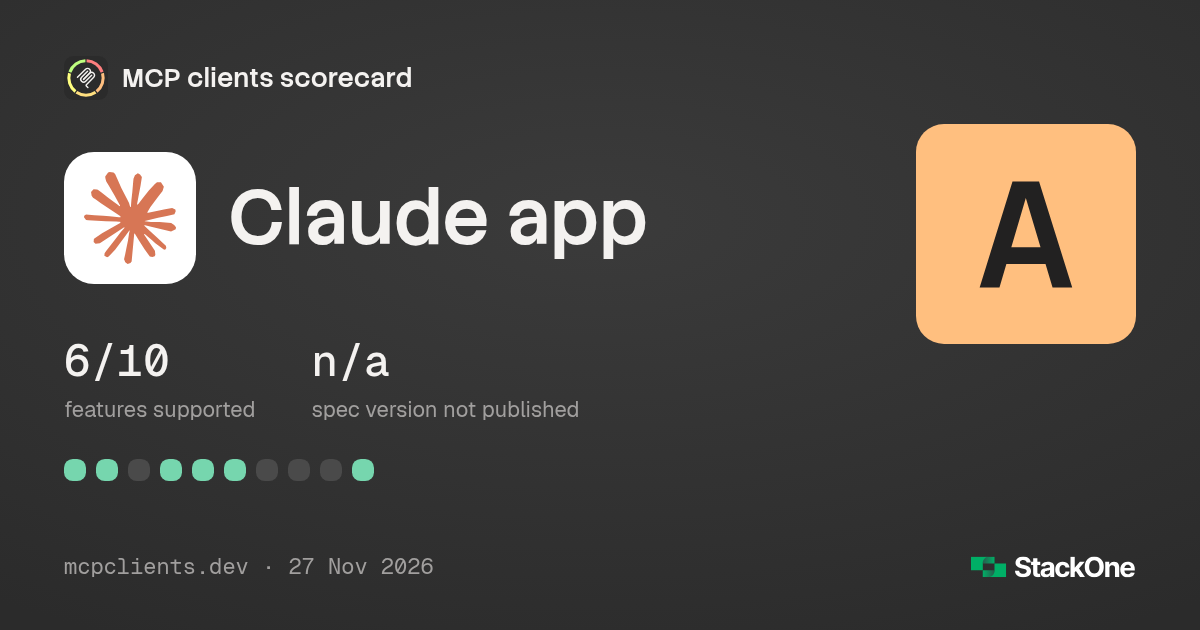
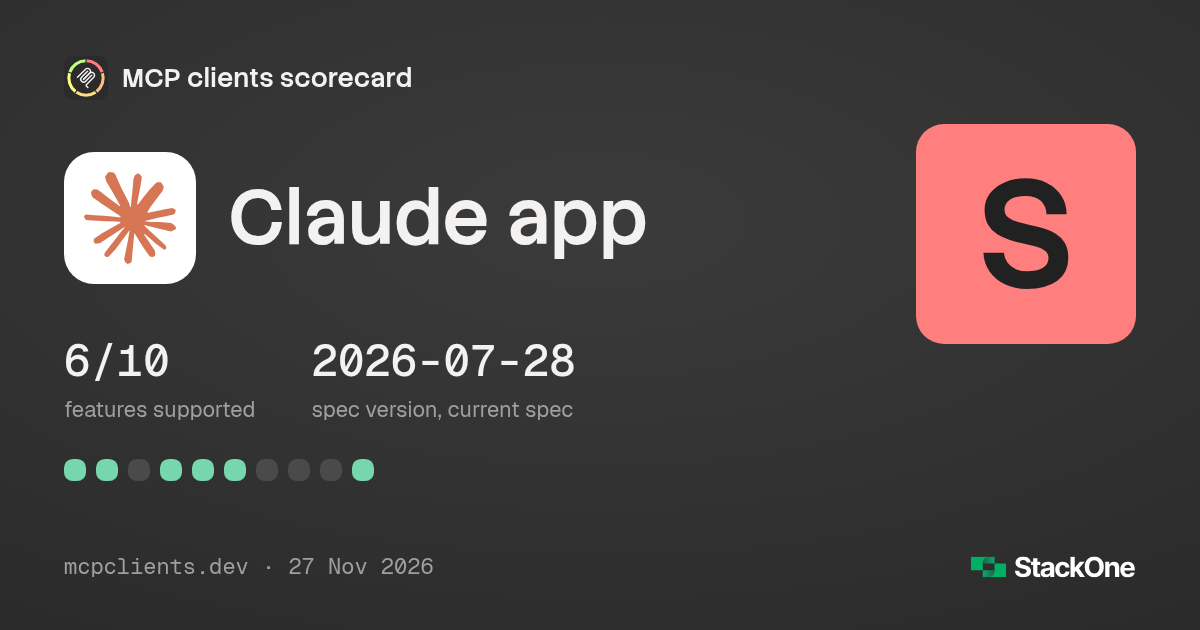
data(claude-app): spec version 2026-07-28 from Claude Desktop source; S tier
Claude Desktop 6.28899.6 negotiates 2026-07-28 first (falls back to
2025-11-25) for remote connectors and built-in-Node extensions, per its
app.asar. With 6 of 10 on the current spec the rubric gives S.

Changed region(s): [[0.74, 0.181, 0.9558, 0.573], [0.2467, 0.5429, 0.4933, 0.6032], [0.37, 0.6333, 0.4933, 0.6635]]

diff --git a/README.md b/README.md
@@ -13,11 +13,13 @@ Which MCP clients support which parts of the [Model Context Protocol](https://mo
 <!-- changes:start -->
 <!-- Generated by `npm run build` from data/. Do not edit between the markers. -->
 
-The last 30 days to 27 Nov 2026. Clients: 15 · Feature support: 26 · Tier moves: 8 · Spec: 1. Board changes carry the date of the weekly check, shipped features the date of their release note. Feeds: [Atom](https://mcpclients.dev/changelog.xml) · [JSON](https://mcpclients.dev/changelog.json)
+The last 30 days to 27 Nov 2026. Clients: 15 · Feature support: 27 · Tier moves: 9 · Spec: 1. Board changes carry the date of the weekly check, shipped features the date of their release note. Feeds: [Atom](https://mcpclients.dev/changelog.xml) · [JSON](https://mcpclients.dev/changelog.json)
 
 | Date | Kind | Change |
 | --- | --- | --- |
 | 2026-11-27 | Client | [Antigravity](EVIDENCE.md#antigravity) joins the board in A tier |
+| 2026-11-27 | Feature | [Claude app](EVIDENCE.md#claude-app) rechecked: spec version not published → 2026-07-28 |
+| 2026-11-27 | Tier | [Claude app](EVIDENCE.md#claude-app) moves up from A to S tier |
 | 2026-11-27 | Tier | [goose](EVIDENCE.md#goose) moves down from S to A tier |
 | 2026-11-27 | Tier | [OpenClaw](EVIDENCE.md#openclaw) moves down from S to A tier |
 | 2026-11-24 | Feature | [Claude app](EVIDENCE.md#claude-app) ships Skills ([source](https://claude.com/resources/articles/skills-over-mcp-tasks-and-more)) |
@@ -25,13 +27,13 @@ The last 30 days to 27 Nov 2026. Clients: 15 · Feature support: 26 · Tier move
 | 2026-11-24 | Feature | [Claude Code](EVIDENCE.md#claude-code) ships Skills in 2.1.332 ([source](https://www.npmjs.com/package/@anthropic-ai/claude-code/v/2.1.332)) |
 | 2026-11-23 | Client | [Hermes Agent](EVIDENCE.md#hermes-agent) joins the board in A tier |
 | 2026-11-23 | Client | [Open WebUI](EVIDENCE.md#open-webui) joins the board in B tier |
-| 2026-11-23 | Client | [OpenClaw](EVIDENCE.md#openclaw) joins the board in S tier |
-| 2026-11-23 | Feature | [Gemini CLI](EVIDENCE.md#gemini-cli) rechecked: spec version 2025-06-18 → 2025-11-25 |
 
-<details><summary>40 more from the last 30 days</summary>
+<details><summary>42 more from the last 30 days</summary>
 
 | Date | Kind | Change |
 | --- | --- | --- |
+| 2026-11-23 | Client | [OpenClaw](EVIDENCE.md#openclaw) joins the board in S tier |
+| 2026-11-23 | Feature | [Gemini CLI](EVIDENCE.md#gemini-cli) rechecked: spec version 2025-06-18 → 2025-11-25 |
 | 2026-11-23 | Feature | [goose](EVIDENCE.md#goose) rechecked: Tool search partly → yes |
 | 2026-11-23 | Tier | [Gemini CLI](EVIDENCE.md#gemini-cli) moves up from D to C tier |
 | 2026-11-22 | Client | [Amp](EVIDENCE.md#amp) joins the board in A tier |
@@ -190,7 +192,7 @@ As of 27 Nov 2026. Click any cell for its source, or a client name for the full 
 | Tier | Client | Version checked | MCP bugs fixed | Spec version | MCP Apps | Tasks | Events | Skills | CIMD | ID-JAG | Elicitation | Live tool lists | Code mode <sub>harness</sub> | Tool search <sub>harness</sub> |
 | --- | --- | --- | --- | --- | --- | --- | --- | --- | --- | --- | --- | --- | --- | --- |
 | **S** | [VS Code](EVIDENCE.md#vs-code) [↗](https://code.visualstudio.com) | `1.147.0` | [46% of 368](https://github.com/microsoft/vscode/issues) | [![one version behind](assets/icons/spec-behind.svg) 2025-11-25](https://github.com/microsoft/vscode/blob/661626d0e72f97806550790a98fb87116c9db825/src/vs/workbench/contrib/mcp/common/mcpServerRequestHandler.ts#L116) | [![yes](assets/icons/y.svg)](https://github.com/microsoft/vscode/blob/2c33b50b16c472efe58357d1d2a8a5414bc23fbf/src/vs/workbench/contrib/mcp/common/mcpServerRequestHandler.ts#L130) | [![yes](assets/icons/y.svg)](https://github.com/microsoft/vscode/blob/2c33b50b16c472efe58357d1d2a8a5414bc23fbf/src/vs/workbench/contrib/mcp/common/mcpServer.ts#L1404) | [![no](assets/icons/n.svg)](https://github.com/microsoft/vscode/tree/2c33b50b16c472efe58357d1d2a8a5414bc23fbf/src/vs/workbench/contrib/mcp) | [![yes](assets/icons/y.svg)](https://github.com/microsoft/vscode-docs/blob/main/release-notes/v1_147.md) | [![yes](assets/icons/y.svg)](https://github.com/microsoft/vscode/blob/2c33b50b16c472efe58357d1d2a8a5414bc23fbf/src/vs/workbench/api/browser/mainThreadAuthentication.ts#L193) | [![yes](assets/icons/y.svg)](https://github.com/microsoft/vscode/blob/2c33b50b16c472efe58357d1d2a8a5414bc23fbf/src/vs/base/common/oauth.ts#L35) | [![yes](assets/icons/y.svg)](https://github.com/microsoft/vscode/blob/2c33b50b16c472efe58357d1d2a8a5414bc23fbf/src/vs/workbench/contrib/mcp/common/mcpServerRequestHandler.ts#L120) | [![yes](assets/icons/y.svg)](https://github.com/microsoft/vscode/blob/1.144.0/src/vs/workbench/contrib/mcp/common/mcpServer.ts#L1238-L1241) | [![no](assets/icons/n.svg)](https://github.com/microsoft/vscode/tree/2c33b50b16c472efe58357d1d2a8a5414bc23fbf/src/vs/workbench/contrib/mcp) | [![yes](assets/icons/y.svg) Embeddings](https://github.com/microsoft/vscode/blob/2c33b50b16c472efe58357d1d2a8a5414bc23fbf/extensions/copilot/src/extension/tools/node/toolSearchTool.ts) |
-| **A** | [Claude app](EVIDENCE.md#claude-app) [↗](https://claude.com/product/overview) | hosted | [13% of 596](https://github.com/anthropics/claude-ai-mcp/issues) | [![not published](assets/icons/spec-unknown.svg) not published](https://claude.com/docs/connectors/building) | [![yes](assets/icons/y.svg)](https://claude.com/docs/connectors/building/mcp-apps/getting-started) | [![yes](assets/icons/y.svg)](https://code.claude.com/docs/en/mcp) | [![no](assets/icons/n.svg)](https://claude.com/docs/connectors/building) | [![yes](assets/icons/y.svg)](https://claude.com/resources/articles/skills-over-mcp-tasks-and-more) | [![yes](assets/icons/y.svg)](https://claude.com/docs/connectors/building/authentication) | [![yes](assets/icons/y.svg)](https://claude.com/docs/connectors/building/enterprise-managed-auth) | [![no](assets/icons/n.svg)](https://github.com/anthropics/claude-ai-mcp/issues/1085) | [![no](assets/icons/n.svg)](https://github.com/anthropics/claude-ai-mcp/issues/45) | [![no](assets/icons/n.svg)](https://claude.com/docs/cowork/changelog) | [![yes](assets/icons/y.svg) Deferred](https://support.claude.com/en/articles/13730515-manage-claude-s-tool-access) |
+| **S** | [Claude app](EVIDENCE.md#claude-app) [↗](https://claude.com/product/overview) | hosted | [13% of 596](https://github.com/anthropics/claude-ai-mcp/issues) | [![current spec](assets/icons/spec-current.svg) 2026-07-28 (falls back to 2025-11-25)](https://downloads.claude.ai/claude-desktop/apt/stable/pool/main/c/claude-desktop/claude-desktop_6.28899.6_amd64.deb) | [![yes](assets/icons/y.svg)](https://claude.com/docs/connectors/building/mcp-apps/getting-started) | [![yes](assets/icons/y.svg)](https://code.claude.com/docs/en/mcp) | [![no](assets/icons/n.svg)](https://claude.com/docs/connectors/building) | [![yes](assets/icons/y.svg)](https://claude.com/resources/articles/skills-over-mcp-tasks-and-more) | [![yes](assets/icons/y.svg)](https://claude.com/docs/connectors/building/authentication) | [![yes](assets/icons/y.svg)](https://claude.com/docs/connectors/building/enterprise-managed-auth) | [![no](assets/icons/n.svg)](https://github.com/anthropics/claude-ai-mcp/issues/1085) | [![no](assets/icons/n.svg)](https://github.com/anthropics/claude-ai-mcp/issues/45) | [![no](assets/icons/n.svg)](https://claude.com/docs/cowork/changelog) | [![yes](assets/icons/y.svg) Deferred](https://support.claude.com/en/articles/13730515-manage-claude-s-tool-access) |
 | **A** | [goose](EVIDENCE.md#goose) [↗](https://goose-docs.ai) | `1.60.2` | [54% of 83](https://github.com/aaif-goose/goose/issues) | [![current spec](assets/icons/spec-current.svg) 2026-07-28 (falls back to 2025-11-25)](https://github.com/aaif-goose/goose/blob/30bba95105e59bc3e7df624cf6b4d433690cfe12/crates/goose/src/agents/mcp_client.rs#L549) | [![yes](assets/icons/y.svg)](https://github.com/aaif-goose/goose/blob/30bba95105e59bc3e7df624cf6b4d433690cfe12/crates/goose/src/agents/mcp_client.rs#L47) | [![no](assets/icons/n.svg)](https://github.com/aaif-goose/goose/blob/30bba95105e59bc3e7df624cf6b4d433690cfe12/crates/goose/src/agents/mcp_client.rs#L443) | [![no](assets/icons/n.svg)](https://github.com/aaif-goose/goose/tree/30bba95105e59bc3e7df624cf6b4d433690cfe12/crates) | [![no](assets/icons/n.svg)](https://github.com/aaif-goose/goose/issues/12068) | [![yes](assets/icons/y.svg)](https://github.com/aaif-goose/goose/blob/30bba95105e59bc3e7df624cf6b4d433690cfe12/crates/goose/src/oauth/mod.rs#L25) | [![no](assets/icons/n.svg)](https://github.com/aaif-goose/goose/tree/30bba95105e59bc3e7df624cf6b4d433690cfe12/crates/goose/src/oauth) | [![partial](assets/icons/p.svg)](https://github.com/aaif-goose/goose/blob/30bba95105e59bc3e7df624cf6b4d433690cfe12/documentation/docs/guides/mcp-elicitation.md#L16) | [![yes](assets/icons/y.svg)](https://github.com/aaif-goose/goose/blob/v1.57.0/crates/goose/src/agents/mcp_client.rs#L358) | [![yes](assets/icons/y.svg)](https://github.com/aaif-goose/goose/blob/30bba95105e59bc3e7df624cf6b4d433690cfe12/documentation/docs/guides/managing-tools/code-mode.md#L25) | [![yes](assets/icons/y.svg) LLM picks](https://github.com/aaif-goose/goose/blob/fb55b5a6d7f5b5df96c8f817f1cde6a81880d9f1/documentation/docs/guides/config-files.md#L54) |
 | **A** | [Antigravity](EVIDENCE.md#antigravity) [↗](https://antigravity.google) | `2.35.2` | no public tracker | [![current spec](assets/icons/spec-current.svg) 2026-07-28 (falls back to 2025-11-25)](https://storage.googleapis.com/antigravity-public/antigravity-hub/2.35.2-4585983447007232/linux-x64/Antigravity.tar.gz) | [![yes](assets/icons/y.svg)](https://antigravity.google/docs/mcp-apps) | [![no](assets/icons/n.svg)](https://storage.googleapis.com/antigravity-public/antigravity-hub/2.35.2-4585983447007232/linux-x64/Antigravity.tar.gz) | [![no](assets/icons/n.svg)](https://storage.googleapis.com/antigravity-public/antigravity-hub/2.35.2-4585983447007232/linux-x64/Antigravity.tar.gz) | [![no](assets/icons/n.svg)](https://antigravity.google/docs/skills) | [![yes](assets/icons/y.svg)](https://antigravity.google/docs/mcp) | [![no](assets/icons/n.svg)](https://storage.googleapis.com/antigravity-public/antigravity-hub/2.35.2-4585983447007232/linux-x64/Antigravity.tar.gz) | [![yes](assets/icons/y.svg)](https://storage.googleapis.com/antigravity-public/antigravity-hub/2.35.2-4585983447007232/linux-x64/Antigravity.tar.gz) | [![yes](assets/icons/y.svg)](https://storage.googleapis.com/antigravity-public/antigravity-hub/2.35.2-4585983447007232/linux-x64/Antigravity.tar.gz) | [![no](assets/icons/n.svg)](https://antigravity.google/docs/dynamic-workflows) | [![yes](assets/icons/y.svg) Files](https://antigravity.google/docs/mcp) |
 | **A** | [Kiro](EVIDENCE.md#kiro) [↗](https://kiro.dev) | `3.5.0` | [30% of 108](https://github.com/kirodotdev/Kiro/issues) | [![current spec](assets/icons/spec-current.svg) 2026-07-28](https://desktop-release.q.us-east-1.amazonaws.com/3.5.0/kirocli-x86_64-linux.zip) | [![no](assets/icons/n.svg)](https://github.com/kirodotdev/Kiro/issues/11048) | [![no](assets/icons/n.svg)](https://kiro.dev/docs/mcp/) | [![no](assets/icons/n.svg)](https://kiro.dev/docs/mcp/) | [![no](assets/icons/n.svg)](https://kiro.dev/docs/mcp/) | [![yes](assets/icons/y.svg)](https://kiro.dev/docs/mcp/configuration/) | [![yes](assets/icons/y.svg)](https://kiro.dev/docs/mcp/configuration/) | [![yes](assets/icons/y.svg)](https://kiro.dev/docs/mcp/usage/) | [![partial](assets/icons/p.svg)](https://github.com/kirodotdev/Kiro/issues/6553) | [![no](assets/icons/n.svg)](https://kiro.dev/docs/mcp/) | [![yes](assets/icons/y.svg) Catalog](https://kiro.dev/docs/mcp/tool-search/) |

diff --git a/EVIDENCE.md b/EVIDENCE.md
@@ -334,13 +334,13 @@ Tier **S** · App or IDE · version checked `1.147.0` · tracker [microsoft/vsco
 
 ## Claude app
 
-Tier **A** · App or IDE · tracker [anthropics/claude-ai-mcp](https://github.com/anthropics/claude-ai-mcp/issues) · MCP bugs fixed: 13% of 596
+Tier **S** · App or IDE · tracker [anthropics/claude-ai-mcp](https://github.com/anthropics/claude-ai-mcp/issues) · MCP bugs fixed: 13% of 596
 
 [website](https://claude.com/product/overview) · [docs](https://claude.com/docs/connectors/building) · [repo](https://github.com/anthropics/claude-ai-mcp) · [data file](data/clients/claude-app.yaml)
 
 | Feature | Value | Evidence | Method | Checked | Shipped |
 | --- | --- | --- | --- | --- | --- |
-| Spec version | [![not published](assets/icons/spec-unknown.svg) not published](https://claude.com/docs/connectors/building) | The connector build page names only the 2025-03-26, 2025-06-18 and 2025-11-25 authorization specs and **publishes no protocol version** for the client. | docs | 2026-10-30 |  |
+| Spec version | [![current spec](assets/icons/spec-current.svg) 2026-07-28 (falls back to 2025-11-25)](https://downloads.claude.ai/claude-desktop/apt/stable/pool/main/c/claude-desktop/claude-desktop_6.28899.6_amd64.deb) | Source: Claude Desktop 6.28899.6 **tries 2026-07-28 first** for remote connectors and for extensions on its built-in Node, and falls back to 2025-11-25.<br>• Read in `app.asar` of the official Linux package (sha256 checked against the apt index), `.vite/build/index.chunk-DqepnCaA.js`.<br>• Remote connectors connect with `versionNegotiation: { mode: "auto" }`: `server/discover` on 2026-07-28, then `initialize` on "2025-11-25" if the server does not answer it.<br>• Desktop extensions on the built-in Node get the same check from a separate era probe. Other local stdio servers start on 2025-11-25 (*"exec lane pinned"*).<br>• A remote feature flag (`1942337209`) turns all of this back to 2025-11-25. It is off by default.<br>• *Not* probed live: the app starts MCP servers only after sign-in. The connector docs still publish no version. | source | 2026-11-27 |  |
 | MCP Apps | [![yes](assets/icons/y.svg)](https://claude.com/docs/connectors/building/mcp-apps/getting-started) | The MCP Apps getting-started page describes an MCP App as interactive UI "that your MCP server renders inside a Claude conversation", built with the MCP Apps SDK. | docs | 2026-10-30 | [2026-01-26](https://claude.com/resources/articles/interactive-tools-in-claude) |
 | Tasks | [![yes](assets/icons/y.svg)](https://code.claude.com/docs/en/mcp) | Docs: MCP tasks **work in claude.ai chats** with connectors that support them on protocol revision 2026-07-28.<br>• The page lists "New chats in the unified Claude experience on Pro, Max, Ultra, and Team plans", and adds that not every existing chat has tasks.<br>• [Anthropic's 2026-11-24 announcement](https://claude.com/resources/articles/skills-over-mcp-tasks-and-more) calls Tasks *generally available*, rolling out to Enterprise. | docs | 2026-11-27 | [2026-11-24](https://claude.com/resources/articles/skills-over-mcp-tasks-and-more) |
 | Events | [![no](assets/icons/n.svg)](https://claude.com/docs/connectors/building) | The connector build page says Claude **"doesn't yet support"** resource subscriptions, sampling, or advanced or draft capabilities. Nothing documents MCP Events. | docs | 2026-10-30 |  |
